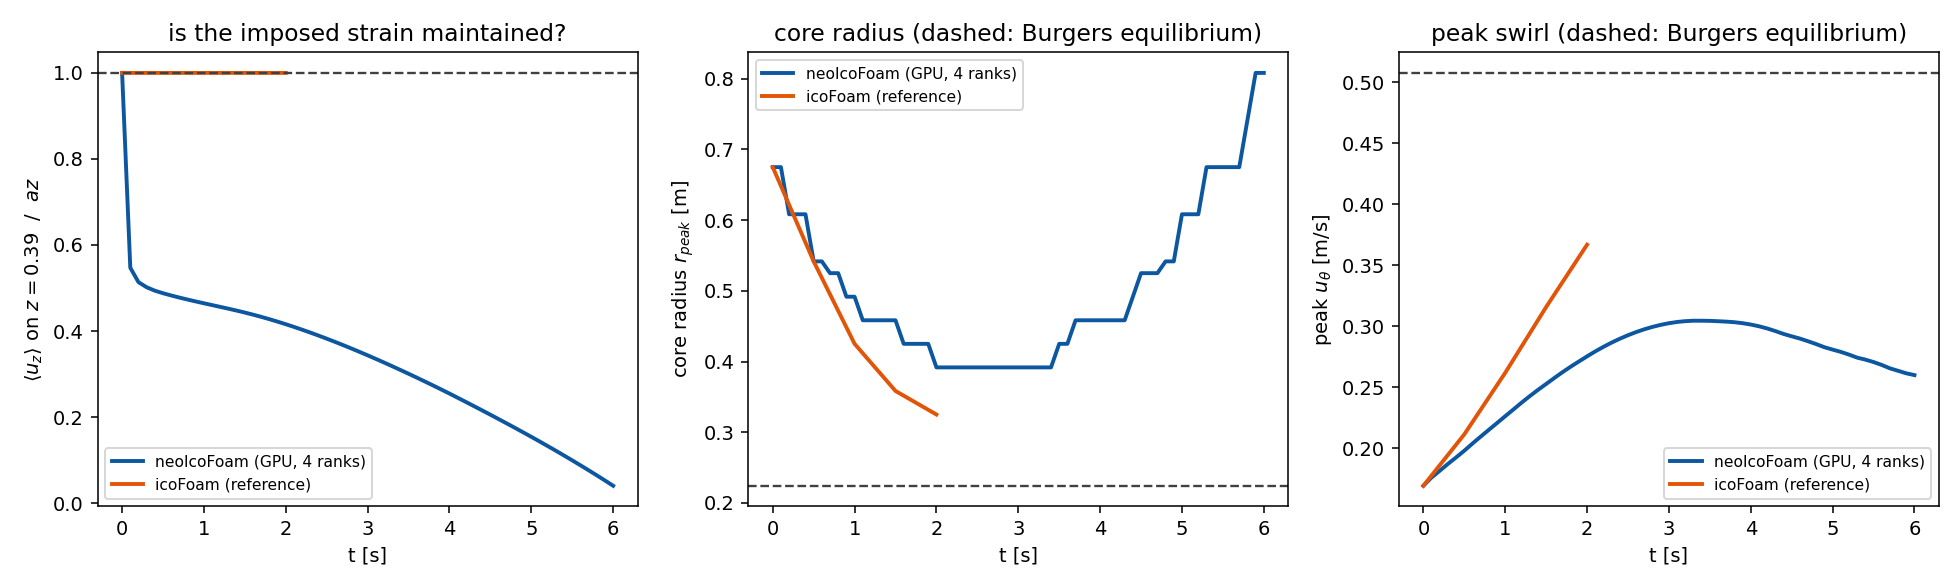
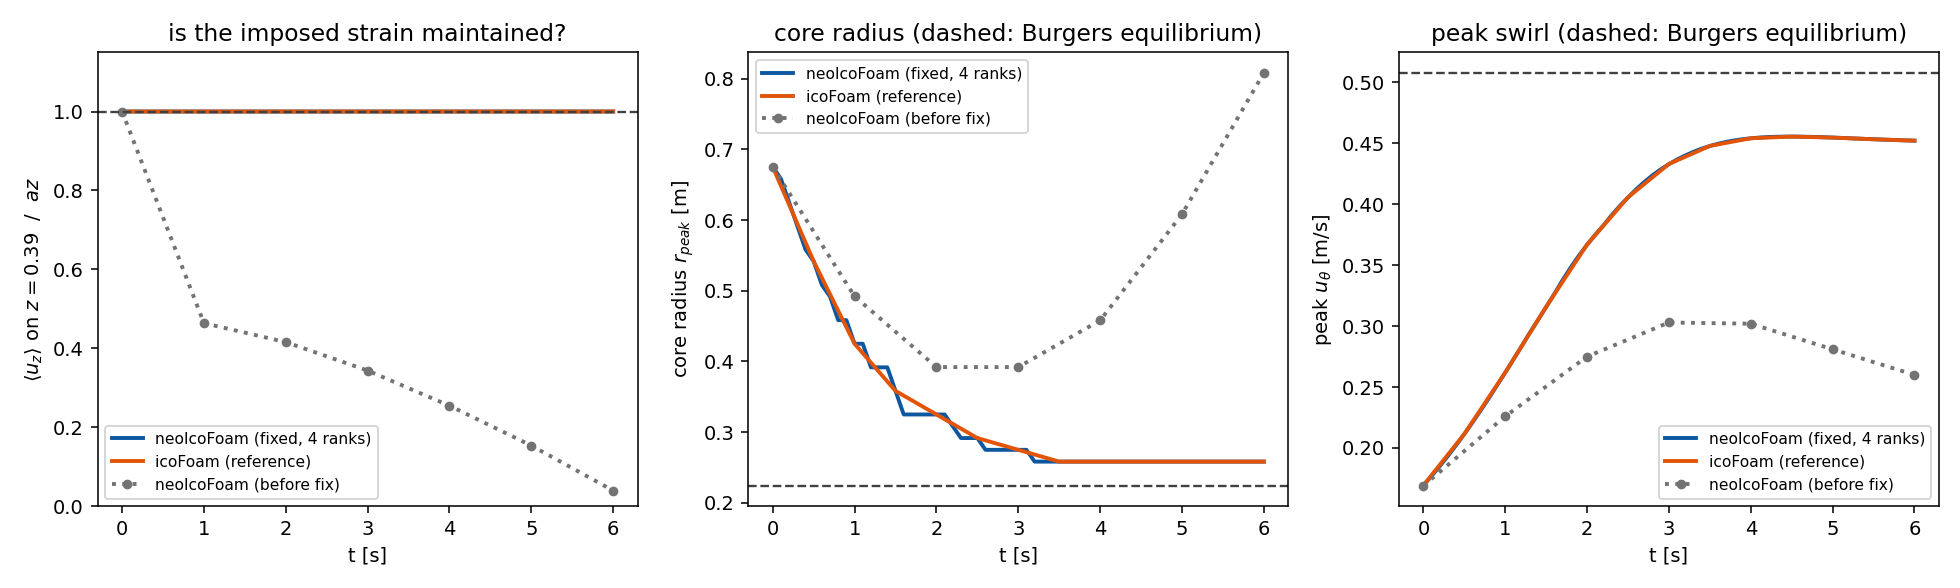
Update stretchedVortex results for the fixed fixedValue reader
Rerun to t = 6 on 4 ranks. With the nonuniform fixedValue patch read correctly
the imposed strain holds to 1e-5, the core contracts 0.675 -> 0.258 and the peak
swirl grows 0.169 -> 0.452, both settling by t ~ 4; icoFoam on the identical
case agrees to three decimals at every write time.

Adds the icoFoam comparison figure, replaces the strain-decay caveat with the
remaining square-domain one (a bounded 9 % azimuthal spread at r = 0.95), and
turns off runTimeModifiable, which killed a parallel run when the file's
timestamp changed mid-solve.

Claude-Session: https://claude.ai/code/session_01NzEWhqzvNRLC4i4NWCGwHw

diff --git a/tutorials/neoIcoFoam/stretchedVortex/README.md b/tutorials/neoIcoFoam/stretchedVortex/README.md
@@ -112,35 +112,48 @@ viscosity opposing it. That is worth being able to look at.
 
 ## Results
 
-Run to `endTime 6` on 4 ranks (`NPROCS=4 ./Allrun -par`).
+Run to `endTime 6` on 4 ranks (`NPROCS=4 ./Allrun -par`), 790 s wall clock.
 
 ![mid-plane swirl and approach to equilibrium](doc/vortexOverview.png)
 
-The core contracts and the swirl amplifies as predicted for the first ~3 s
-(`r_peak` 0.675 -> 0.392, `u_theta` 0.169 -> 0.303), but it stalls well short of
-the equilibrium `delta = 0.2` and then reverses: by `t = 6` the core has spread
-back to `r_peak = 0.808` and the peak swirl has fallen to 0.260.
+The core contracts and the swirl amplifies as predicted, both settling by
+`t ~ 4` -- one strain time is 1 s, the viscous time across the equilibrium core
+is 4 s:
+
+| quantity | t = 0 | t = 6 | Burgers equilibrium |
+| --- | --- | --- | --- |
+| radius of peak swirl | 0.675 | 0.258 | 0.224 |
+| peak `u_theta` | 0.169 | 0.452 | 0.508 |
+
+The steady state sits 15 % wide and 11 % low on swirl, which is about what a
+`delta = 0.2` core spread over 6.4 cells with `Gauss upwind` convection gives.
+Double the `blockMeshDict` counts for a resolution check.
 
 ![meridional structure](doc/vortexStructure.png)
 
-The meridional plane still shows the Burgers topology -- radial inflow at the
-sides, a dividing layer at `z = 0`, axial outflow towards top and bottom -- but
-weaker than imposed.
+The meridional plane shows the expected topology: radial inflow at the sides, a
+dividing layer at `z = 0`, and axial outflow towards top and bottom with
+`u_z = a z` held to 1e-5 for the whole run.
 
-## Caveat: the imposed strain is not maintained
+## Verification
 
-The reversal is not the physics; the driving strain decays away. The mean `u_z`
-on the `z = 0.39` plane should stay at `a z`, and it does not: it drops by half
-within the first write interval and reaches 4 % of the imposed value by `t = 6`,
-even though the `fixedValue` side patches are unchanged. The same case run with
-OpenFOAM's `icoFoam` (identical mesh, boundary conditions and schemes -- set
-`application icoFoam` and re-run) holds the strain at `a z` to machine accuracy
-and contracts the core faster, reaching `r_peak = 0.325` at `t = 2` where
-`neoIcoFoam` reaches 0.392.
+The same case run with OpenFOAM's `icoFoam` (identical mesh, boundary conditions
+and schemes -- set `application icoFoam` and re-run) agrees to three decimals on
+both diagnostics at every write time.
 
-![strain comparison](doc/strainComparison.png)
+![comparison with icoFoam](doc/strainComparison.png)
 
-A second, smaller issue is the square domain itself: the analytic `fixedValue`
-inflow on its sides is not axisymmetric -- corners sit at `r = 1.4`, mid-edges at
-`r = 1.0` -- and the mismatch propagates inwards as a four-lobed pattern in the
-outer field. A wider box or a cylindrical mesh would remove that one.
+The dotted line is this case before the `fixedValue` reader fix in
+`NeoFOAM/auxiliary/readers.hpp`: a patch value written as a `nonuniform List`,
+which is what `setExprBoundaryFields` produces for the analytic inflow here, was
+silently read as an `empty` boundary, so the imposed strain decayed to 4 % of
+`a z` and the core re-expanded. This tutorial needs a NeoFOAM new enough to
+contain that fix; older builds reproduce the dotted curve.
+
+## Caveat
+
+The square domain with an analytic `fixedValue` inflow on its sides is not
+axisymmetric -- corners sit at `r = 1.4`, mid-edges at `r = 1.0`. The resulting
+azimuthal spread of `u_theta` on the ring `r = 0.95` is 9 % and stops growing
+after `t ~ 1`; the core is unaffected. A wider box or a cylindrical mesh would
+remove it.
